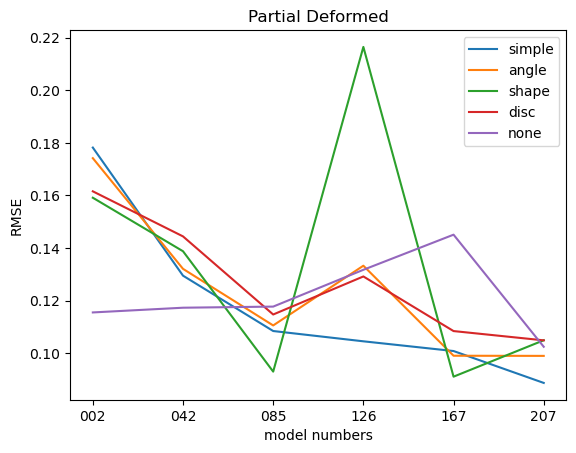
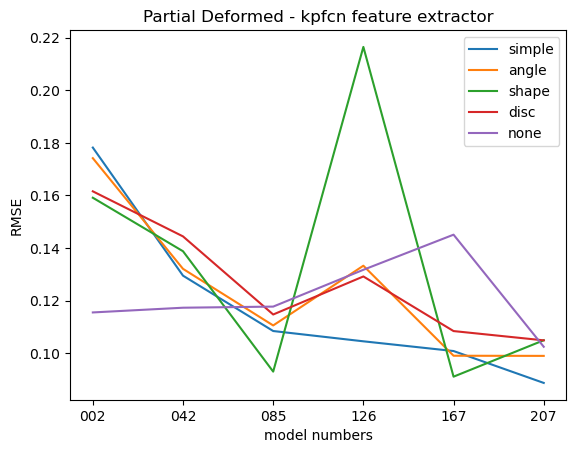
adding kpfcn into the title in order to know that we are using the pretrained kpfcn

Changed region(s): [[0.25, 0.0, 0.8438, 0.0618]]

diff --git a/Testing/exterior_boundary_detection/aggregate_data_edge_filtering_rmse.py b/Testing/exterior_boundary_detection/aggregate_data_edge_filtering_rmse.py
@@ -85,7 +85,7 @@ for data_type in data_types:
         
         plt.plot(models, criterion_res)
     
-    plt.title(data_type)
+    plt.title(data_type + ' - ' + feature_extractor + ' feature extractor')
     plt.ylabel('RMSE')
     plt.xlabel('model numbers')
     plt.legend(criteria, loc = "upper right")
